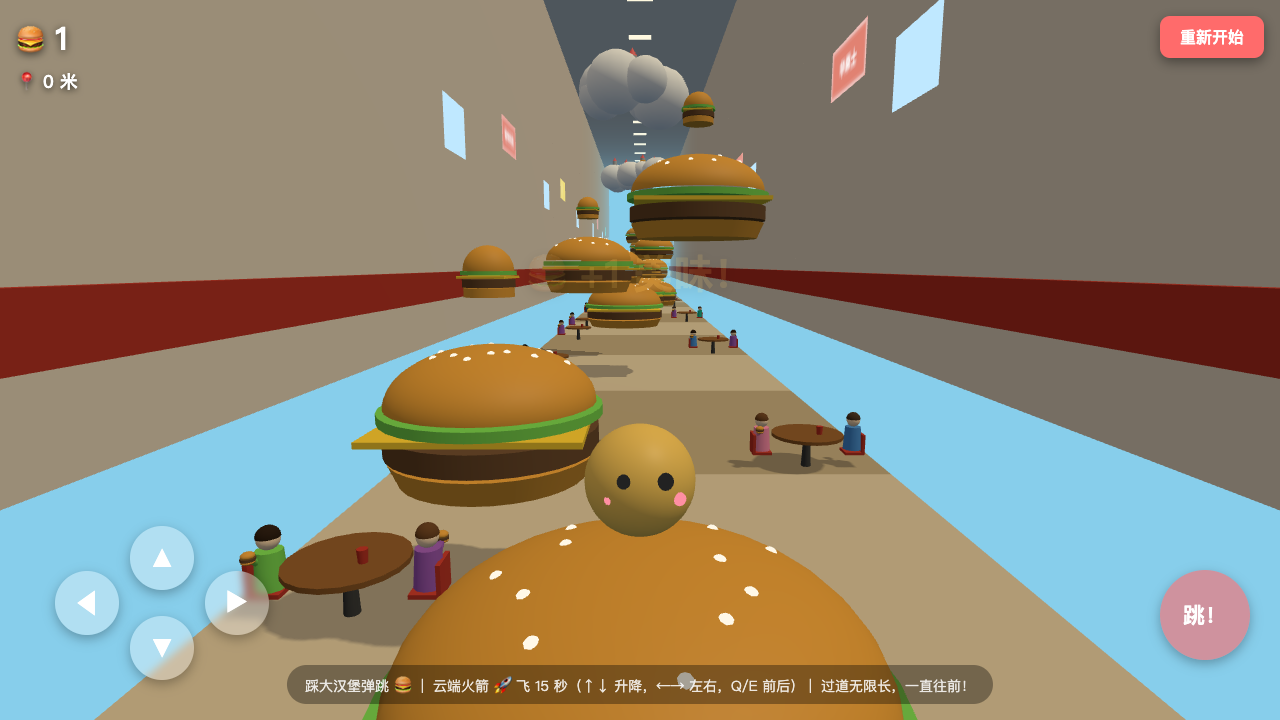
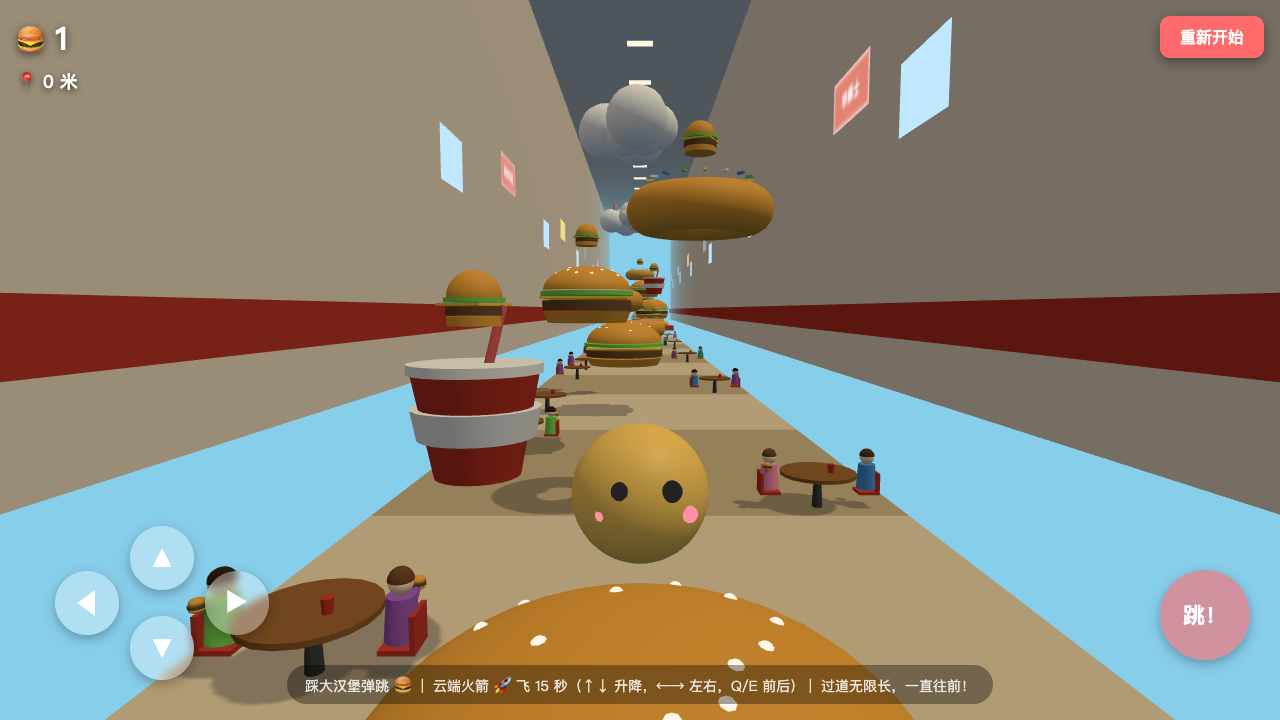
feat: 新增甜甜圈/可乐/麦乐鸡块弹跳食品 + 果冻感按压动画(欠阻尼弹簧: 压下→回弹→余震)

diff --git a/index.html b/index.html
@@ -181,6 +181,12 @@ const M = {
   cheese: new THREE.MeshStandardMaterial({ color: 0xffd43b, roughness: 0.4 }),
   lettuce: new THREE.MeshStandardMaterial({ color: 0x7ed957, roughness: 0.6 }),
   sesame: new THREE.MeshBasicMaterial({ color: 0xfff8e7 }),
+  donutFrost: new THREE.MeshStandardMaterial({ color: 0xf78fb3, roughness: 0.35 }),
+  colaRed: new THREE.MeshStandardMaterial({ color: 0xc0392b, roughness: 0.4 }),
+  colaWhite: new THREE.MeshStandardMaterial({ color: 0xf5f5f5, roughness: 0.5 }),
+  colaStraw: new THREE.MeshStandardMaterial({ color: 0xff6b6b, roughness: 0.4 }),
+  nugget: new THREE.MeshStandardMaterial({ color: 0xf0b25a, roughness: 0.55 }),
+  nuggetTray: new THREE.MeshStandardMaterial({ color: 0xe74c3c, roughness: 0.7 }),
   cloud: new THREE.MeshStandardMaterial({ color: 0xffffff, roughness: 1 }),
   rocketBody: new THREE.MeshStandardMaterial({ color: 0xeeeeee, roughness: 0.3, metalness: 0.4 }),
   rocketRed: new THREE.MeshStandardMaterial({ color: 0xff6b6b, roughness: 0.4 }),
@@ -318,38 +324,109 @@ function makeTableSet(i, salt, x, z) {
   return g;
 }
 
-// ---------- 玩法组件 ----------
-function makeBigBurger(r = 2.2) {
+// ---------- 弹跳食品（果冻感：原点在地面，踩下时顶部下压、底部不动） ----------
+function makeBurger(r = 2.2) {
   const g = new THREE.Group();
   const bottom = new THREE.Mesh(new THREE.CylinderGeometry(r, r * 0.9, 0.5, 32), M.bun);
-  bottom.position.y = -2.5;
+  bottom.position.y = 0.25;
   const patty = new THREE.Mesh(new THREE.CylinderGeometry(r * 1.02, r * 1.02, 0.45, 32), M.patty);
-  patty.position.y = -1.95;
+  patty.position.y = 0.8;
   const cheese = new THREE.Mesh(new THREE.BoxGeometry(r * 1.9, 0.12, r * 1.9), M.cheese);
-  cheese.position.y = -1.6;
+  cheese.position.y = 1.15;
   const lettuce = new THREE.Mesh(new THREE.CylinderGeometry(r * 1.06, r * 1.06, 0.2, 32), M.lettuce);
-  lettuce.position.y = -1.4;
+  lettuce.position.y = 1.35;
   const top = new THREE.Mesh(new THREE.SphereGeometry(r, 32, 16, 0, Math.PI * 2, 0, Math.PI / 2), M.bun);
   top.scale.y = 0.55;
-  top.position.y = -1.25;
+  top.position.y = 1.5;
   g.add(bottom, patty, cheese, lettuce, top);
   for (let i = 0; i < 14; i++) {
     const s = new THREE.Mesh(new THREE.SphereGeometry(0.09, 8, 8), M.sesame);
     const a = (i / 14) * Math.PI * 2;
     const rr = r * (0.3 + Math.random() * 0.5);
-    s.position.set(Math.cos(a) * rr, -1.25 + Math.sqrt(Math.max(0, 1 - (rr / r) ** 2)) * r * 0.55 - 0.05, Math.sin(a) * rr);
+    s.position.set(Math.cos(a) * rr, 1.5 + Math.sqrt(Math.max(0, 1 - (rr / r) ** 2)) * r * 0.55 - 0.05, Math.sin(a) * rr);
     g.add(s);
   }
   g.traverse(o => { if (o.isMesh) o.castShadow = true; });
-  return g;
+  return { g, h: 1.5 + r * 0.55 };
 }
 
-function addBigBurger(chunk, x, y, z, r = 2.2) {
-  const g = makeBigBurger(r);
-  g.position.set(x, y, z);
+function makeDonut(r = 2.2) {
+  const g = new THREE.Group();
+  const R = r * 0.72, tube = r * 0.34;
+  const base = new THREE.Mesh(new THREE.TorusGeometry(R, tube, 16, 40), M.bun);
+  base.rotation.x = Math.PI / 2;
+  base.position.y = tube;
+  const frost = new THREE.Mesh(new THREE.TorusGeometry(R, tube * 0.72, 16, 40), M.donutFrost);
+  frost.rotation.x = Math.PI / 2;
+  frost.position.y = tube + tube * 0.28;
+  g.add(base, frost);
+  const sprinkleColors = [0xfff176, 0x7ed957, 0x4a90d9, 0xffffff];
+  for (let i = 0; i < 16; i++) {
+    const s = new THREE.Mesh(new THREE.BoxGeometry(0.24, 0.07, 0.09),
+      new THREE.MeshStandardMaterial({ color: sprinkleColors[i % 4] }));
+    const a = (i / 16) * Math.PI * 2;
+    s.position.set(Math.cos(a) * R, tube * 2 + tube * 0.3, Math.sin(a) * R);
+    s.rotation.y = -a;
+    g.add(s);
+  }
+  g.traverse(o => { if (o.isMesh) o.castShadow = true; });
+  return { g, h: tube * 2 + tube * 0.35 };
+}
+
+function makeCola(r = 2.2) {
+  const g = new THREE.Group();
+  const cw = r * 0.55;
+  const cup = new THREE.Mesh(new THREE.CylinderGeometry(cw, cw * 0.68, 1.9, 24), M.colaRed);
+  cup.position.y = 0.95;
+  const band = new THREE.Mesh(new THREE.CylinderGeometry(cw * 1.02, cw * 0.93, 0.55, 24), M.colaWhite);
+  band.position.y = 1.0;
+  const lid = new THREE.Mesh(new THREE.CylinderGeometry(cw * 1.06, cw * 1.06, 0.18, 24), M.colaWhite);
+  lid.position.y = 1.99;
+  const straw = new THREE.Mesh(new THREE.CylinderGeometry(0.09, 0.09, 1.3, 10), M.colaStraw);
+  straw.position.set(cw * 0.3, 2.5, 0);
+  straw.rotation.z = -0.25;
+  g.add(cup, band, lid, straw);
+  g.traverse(o => { if (o.isMesh) o.castShadow = true; });
+  return { g, h: 2.08 };
+}
+
+function makeNuggets(r = 2.2) {
+  const g = new THREE.Group();
+  const tray = new THREE.Mesh(new THREE.BoxGeometry(r * 1.7, 0.5, r * 1.7), M.nuggetTray);
+  tray.position.y = 0.25;
+  g.add(tray);
+  const spots = [[0, 0], [0.7, 0.4], [-0.7, 0.3], [0.35, -0.7], [-0.45, -0.6], [0.1, 0.75]];
+  for (const [dx, dz] of spots) {
+    const n = new THREE.Mesh(new THREE.SphereGeometry(0.55, 14, 10), M.nugget);
+    n.scale.set(1.3, 0.75, 1);
+    n.position.set(dx * r * 0.5, 0.62, dz * r * 0.5);
+    n.rotation.y = Math.random() * 3;
+    g.add(n);
+  }
+  g.traverse(o => { if (o.isMesh) o.castShadow = true; });
+  return { g, h: 1.05 };
+}
+
+const FOODS = [
+  { type: 'burger', w: 4, make: makeBurger },
+  { type: 'donut', w: 2, make: makeDonut },
+  { type: 'cola', w: 2, make: makeCola },
+  { type: 'nuggets', w: 2, make: makeNuggets },
+];
+function pickFood() {
+  const total = FOODS.reduce((s, f) => s + f.w, 0);
+  let x = Math.random() * total;
+  for (const f of FOODS) { x -= f.w; if (x <= 0) return f; }
+  return FOODS[0];
+}
+
+function addFood(chunk, x, y, z, r = 2.2, forceType) {
+  const f = forceType ? FOODS.find(f => f.type === forceType) : pickFood();
+  const { g, h } = f.make(r);
+  g.position.set(x, y - h, z);   // 原点在底部，顶面正好在 y
   chunk.group.add(g);
   return regPlatform(chunk, {
-    mesh: g, bouncy: true, squish: 0,
+    mesh: g, bouncy: true, jellyT: -1,
     minX: x - r, maxX: x + r, minZ: z - r, maxZ: z + r, top: y,
   });
 }
@@ -485,7 +562,7 @@ function generateChunk(i) {
 
   // 起点大汉堡（第 0 区块）
   if (i === 0) {
-    addBigBurger(chunk, 0, 0, 0, 2.8);
+    addFood(chunk, 0, 0, 0, 2.8, 'burger');
     addBurger(chunk, 0, 0, 0);
   }
 
@@ -495,13 +572,13 @@ function generateChunk(i) {
     const by = j === 0 ? 1 + rand(i, j + 40) * 1.5 : 2 + rand(i, j + 40) * 6;
     const bz = zNear - 6 - j * 9;
     const r = 2.0 + rand(i, j + 50) * 0.6;
-    addBigBurger(chunk, bx, by, bz, r);
+    addFood(chunk, bx, by, bz, r);
     if (rand(i, j + 60) > 0.35) addBurger(chunk, bx, by, bz);
   }
 
   // 每 4 个区块一段云端（云可站 + 多个火箭）
   if (i % 4 === 3) {
-    addBigBurger(chunk, 0, 10, zMid, 2.4);          // 跳板
+    addFood(chunk, 0, 10, zMid, 2.4, 'donut');      // 跳板：大甜甜圈
     addBurger(chunk, 0, 10, zMid);
     const c1x = (rand(i, 70) - 0.5) * 6;
     const c2x = (rand(i, 71) - 0.5) * 6;
@@ -689,12 +766,18 @@ function update(dt) {
         }
       }
     }
+    // 果冻感：踩下 → 快速回弹 → 带余震地晃回原样（欠阻尼弹簧）
     for (const p of platforms) {
-      if (p.bouncy) {
-        if (p === bounced) p.squish = 1;
-        p.squish = Math.max(0, p.squish - dt * 4);
-        const s = 1 - p.squish * 0.25;
-        p.mesh.scale.set(1 + p.squish * 0.2, s, 1 + p.squish * 0.2);
+      if (!p.bouncy) continue;
+      if (p === bounced) p.jellyT = 0;
+      if (p.jellyT < 0) continue;
+      p.jellyT += dt;
+      if (p.jellyT > 1.2) {
+        p.jellyT = -1;
+        p.mesh.scale.set(1, 1, 1);
+      } else {
+        const off = -0.45 * Math.exp(-3.5 * p.jellyT) * Math.cos(12 * p.jellyT);
+        p.mesh.scale.set(1 - off * 0.55, 1 + off, 1 - off * 0.55);
       }
     }
   }
